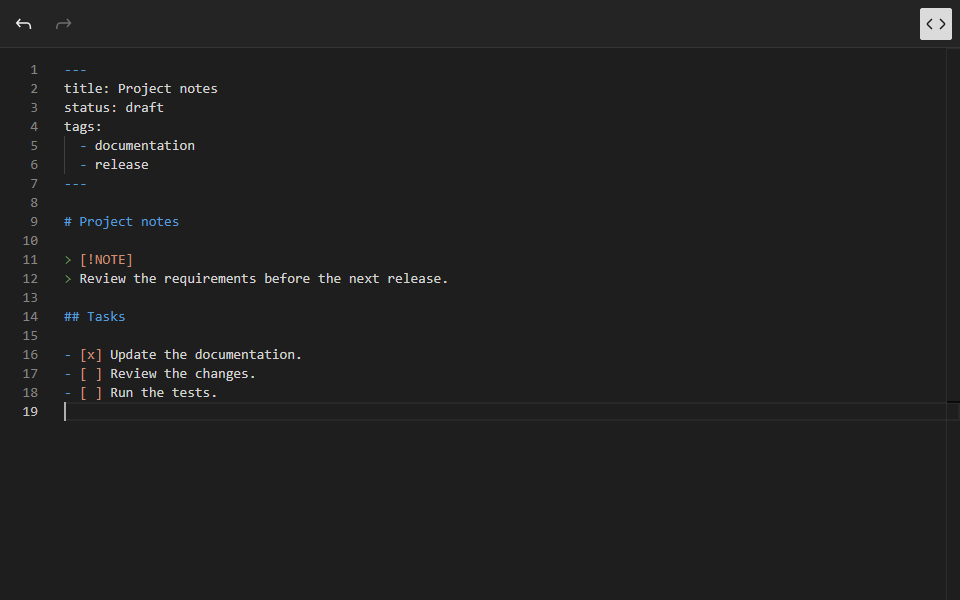
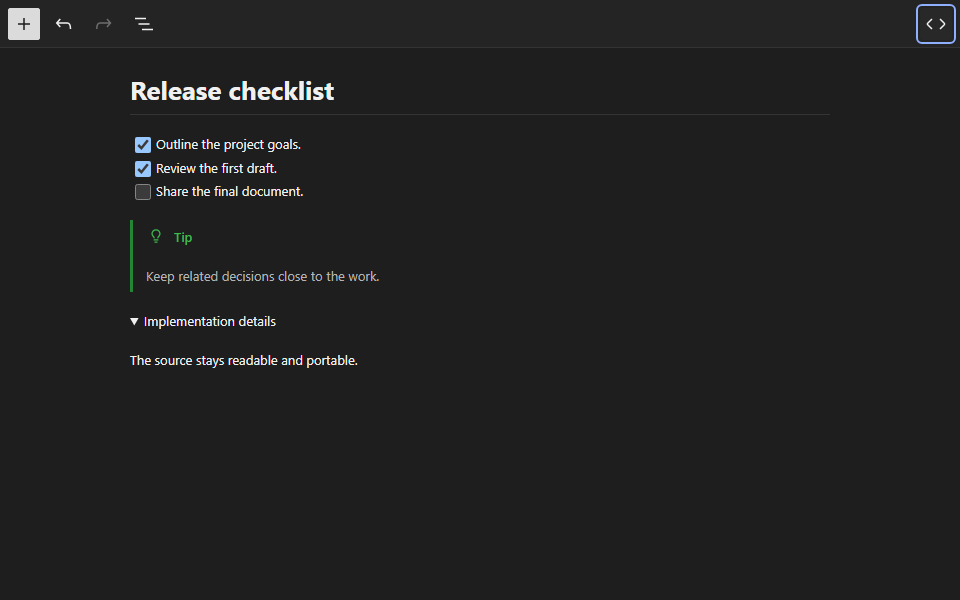
feat(repo): showcase richer markdown features

diff --git a/apps/site/index.html b/apps/site/index.html
@@ -55,7 +55,7 @@
 				/>MarkBricks</a
 			>
 			<nav aria-label="Main navigation">
-				<a href="#playground">Try the editor</a>
+				<a href="#playground">Playground</a>
 				<a href="#features">Features</a>
 				<a href="#download">Download</a>
 			</nav>
@@ -128,7 +128,7 @@
 			>
 				<div class="wrap">
 					<h2 id="playground-title" class="playground-heading">
-						Try the editor
+						Try it here.
 					</h2>
 					<div class="demo-frame">
 						<iframe
@@ -172,7 +172,7 @@
 							Move things around as your document takes shape.
 						</p>
 						<p>
-							Switch to Monaco to edit the source. Both views work
+							Switch to the code editor to edit the source. Both views work
 							on the same <code>.md</code> document.
 						</p>
 					</div>
@@ -229,7 +229,9 @@
 							From Markdown notes<br />to presentation slides.
 						</h3>
 						<p>
-							Start a
+							Use YAML front matter for document metadata, and add
+							<code>marp: true</code> to turn your Markdown notes
+							into a
 							<a
 								href="https://marp.app/"
 								target="_blank"
@@ -237,10 +239,8 @@
 								aria-describedby="new-tab-description"
 								>Marp<span aria-hidden="true">&nbsp;↗</span></a
 							>
-							deck by adding <code>marp: true</code> to your YAML
-							front matter. Write your slides in Markdown, with
-							headings, images, code, and equations in the same
-							file.
+							deck. Build slides with headings, images, code, and
+							equations in the same <code>.md</code> file.
 						</p>
 						<p>
 							Preview and present your deck in the desktop app or
@@ -267,19 +267,20 @@
 				<article class="feature-card">
 					<div class="feature-copy">
 						<h3>
-							Front matter and alerts.<br />In plain Markdown.
+							Beyond basic Markdown.<br />Built for richer documents.
 						</h3>
 						<p>
-							Keep document metadata in YAML front matter and edit
-							it from the visual editor. Add GitHub-style alerts
-							for notes, warnings, and other information that
-							needs attention.
+							Write with headings, lists, links, tables, and other
+							familiar Markdown formatting. MarkBricks also
+							supports task lists with checkboxes, collapsible
+							details, and GitHub-style alerts for notes, tips,
+							warnings, and more.
 						</p>
 						<p>
-							Choose light or dark mode for your workspace. The
-							desktop app and VS Code extension support English
-							and 13 other interface languages, and your metadata
-							and alerts stay in the same <code>.md</code> file.
+							Everything stays in a readable <code>.md</code> file.
+							Switch between visual blocks and the code editor
+							whenever you want, without locking your content into
+							a proprietary format.
 						</p>
 					</div>
 					<picture class="feature-screenshot">
@@ -289,7 +290,7 @@
 						/>
 						<img
 							src="/features/source-light.png"
-							alt="Monaco editing Markdown with YAML front matter and a GitHub-style note."
+							alt="MarkBricks visual editor with a three-item task list, a GitHub-style alert, and expanded details."
 							width="960"
 							height="600"
 							loading="lazy"
